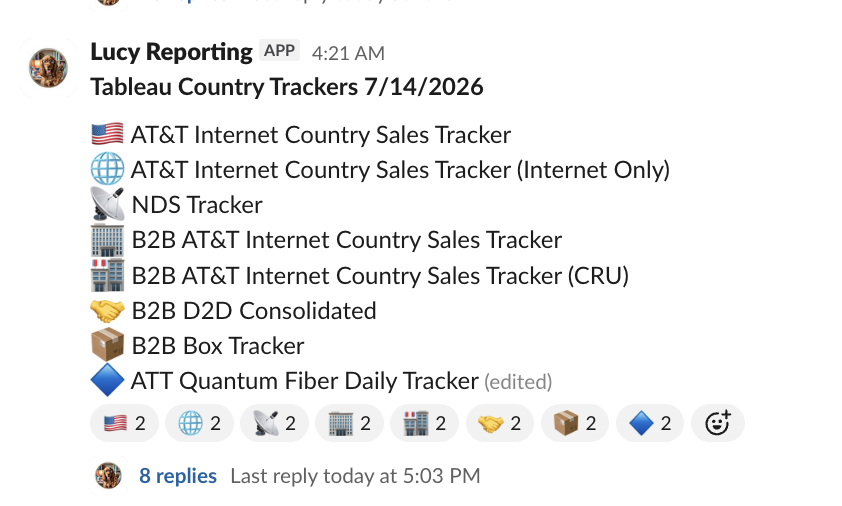
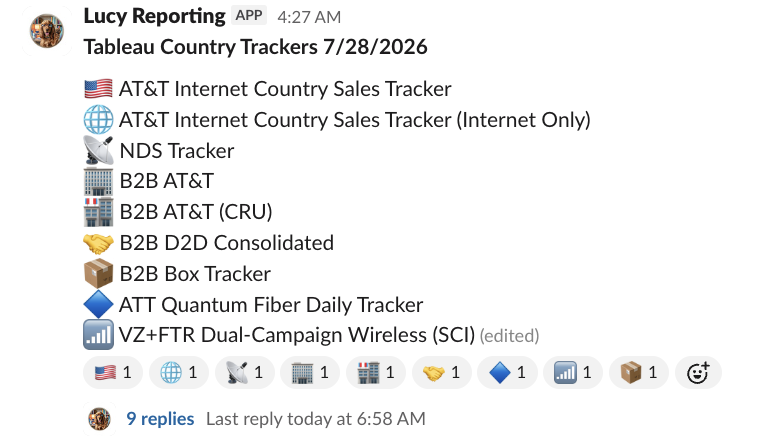
tableau-screenshots card: 9 trackers, 4am flow, trim + reword
- TRACKERS list now shows all 9 that appear in the thread (org-wide +
  B2B Box), Box annotated "posts ~7am" — matches the actual Slack post
  (was 8; Box was hidden from the list)
- schedule display "5:00 AM" -> "4 AM flow (when data's ready)" (it
  already runs order 5 in the 4am flow, no fixed clock)
- removed the CHANNEL-SPECIFIC (custom subset) section
- reworded the box section to a short "B2B BOX (POSTS ~7AM)" note
- refreshed the card screenshot

Changed region(s): [[0.0301, 0.0, 0.873, 0.8824], [0.0903, 0.9118, 0.572, 0.9706], [0.9031, 0.8235, 0.9332, 0.8824]]

diff --git a/automations/dashboard.py b/automations/dashboard.py
@@ -1452,10 +1452,10 @@ def _tableau_trackers_card() -> dict:
     missed. That's what makes one card safe here: a single red light would hide
     a lone channel failing.
 
-    B2B Box is NOT on this card — its data isn't in at 5:00, so it posts hours
-    later on its own card (_tableau_box_card). Two runs, two pills: one card
-    covering both would go red at 5:00 every morning for a board that simply
-    hasn't landed yet."""
+    B2B Box IS listed on this card's thread but posts LATER on its own run
+    (_tableau_box_card) — its Tableau data isn't in during the 4am run, so its
+    image follows ~7am. Two runs, two pills, so a board that simply hasn't
+    landed yet doesn't turn the 4am card red."""
     from automations.tableau_screenshots import slack_post as _sp
     from automations.tableau_screenshots import pages as _pages
     # Org-wide boards = every channel gets them. EXCLUDE opt_in_only boards: those
@@ -1465,12 +1465,10 @@ def _tableau_trackers_card() -> dict:
     morning = [p for p in _pages.PAGES
                if not _pages.is_late(p) and not _pages.is_opt_in_only(p)]
     late = [p for p in _pages.PAGES if _pages.is_late(p)]
-    # Channels that get a CUSTOM subset instead of the org-wide set (Domin8 7/23).
-    _custom_lines = []
-    for _o, _ids in _sp.ORG_TRACKERS.items():
-        _titles = [_pages.by_id(t)["title"] for t in _ids if _pages.by_id(t)]
-        _custom_lines.append(f"• {_sp.ORG_LABEL.get(_o, _o)}: {', '.join(_titles)}")
-    _custom_block = "\n".join(_custom_lines)
+    # Every tracker that shows in the thread (org-wide + late), in board order —
+    # excludes only opt-in-only boards. Late boards (B2B Box) are LISTED here from
+    # the start; their image just follows once the data refreshes. (Megan 7/28)
+    _display = [p for p in _pages.PAGES if not _pages.is_opt_in_only(p)]
     # Boards TODAY's run left out because their source wasn't in yet (an email
     # tracker's .xlsx hadn't landed) — read from the status file so the success
     # line reports exactly what posted, not a blanket "all N". Stale/absent → none.
@@ -1484,7 +1482,8 @@ def _tableau_trackers_card() -> dict:
     except Exception:
         _omitted_today = []
     trackers = "\n".join(
-        f"{i}. {p['title']}" for i, p in enumerate(morning, 1))
+        f"{i}. {p['title']}" + ("  — posts ~7am" if _pages.is_late(p) else "")
+        for i, p in enumerate(_display, 1))
     late_names = ", ".join(p["title"] for p in late)
     # Prose form (one line, for the card description sentence).
     channels = ", ".join(_sp.ORG_LABEL[o] for o in _sp.ORGS)
@@ -1503,28 +1502,23 @@ def _tableau_trackers_card() -> dict:
         "color": "#1F4E79",
         "category": "📊 Metrics",
         "description": (
-            f"Captures {len(morning)} Tableau country sales trackers as images "
-            "and posts them daily into a 'Tableau Country Trackers M/D/YYYY' "
-            f"thread in every sales channel: {channels}. The boards are "
-            "country-wide, so all channels get identical images from a single "
-            "capture (one Tableau login). Replaces Jolie's manual tracker post. "
-            f"{late_names} posts later, on its own card — its data isn't in "
-            "this early."),
+            f"Posts {len(_display)} Tableau country sales trackers as images "
+            "daily into a 'Tableau Country Trackers M/D/YYYY' thread in every "
+            f"sales channel: {channels}. The boards are country-wide, so all "
+            "channels get identical images from a single capture (one Tableau "
+            f"login) in the 4am run. Replaces Jolie's manual tracker post. "
+            f"{late_names} is listed in the thread from the start; its image "
+            "follows once its data refreshes (~7am)."),
         "breakdown": (
             "WHAT IT DOES\n"
-            f"Grabs each of these {len(morning)} Tableau country trackers as an "
-            "image and posts them into today's dated thread in every channel "
-            "below.\n\n"
+            f"Grabs these {len(_display)} Tableau country trackers as images and "
+            "posts them into today's dated thread in every channel below (the "
+            f"first {len(morning)} in the 4am run; {late_names} follows ~7am).\n\n"
             f"TRACKERS\n{trackers}\n\n"
             f"CHANNELS\n{channel_bullets}\n\n"
-            + (f"CHANNEL-SPECIFIC (a custom subset, not the org-wide set)\n"
-               f"{_custom_block}\n\n" if _custom_block else "")
-            + "WHY BOX ISN'T HERE\n"
+            "B2B BOX (POSTS ~7AM)\n"
             f"{late_names}'s numbers don't settle until its Tableau data "
-            "refreshes (~7am), so posting it at 5:00 posted yesterday's "
-            "figures. It's listed in the Slack thread's header from 5:00 — "
-            "marked as still coming — and its image is added to that same "
-            "thread by the 'Box (late)' card as soon as the data is real.\n\n"
+            "refreshes (~7am) — that tracker is posted then.\n\n"
             "IF A CHANNEL MISSES\n"
             "The card shows a per-channel checklist after the run. Use "
             "'Retry failed only' to re-post just the channels that missed, or "
@@ -1532,7 +1526,7 @@ def _tableau_trackers_card() -> dict:
         "assignees": ["Lucy 1"],
         "schedule": {
             "frequency": "daily",
-            "time": "5:00 AM",
+            "time": "4 AM flow (when data's ready)",
             "estimated_minutes": 12,
         },
         "checklist": [],
